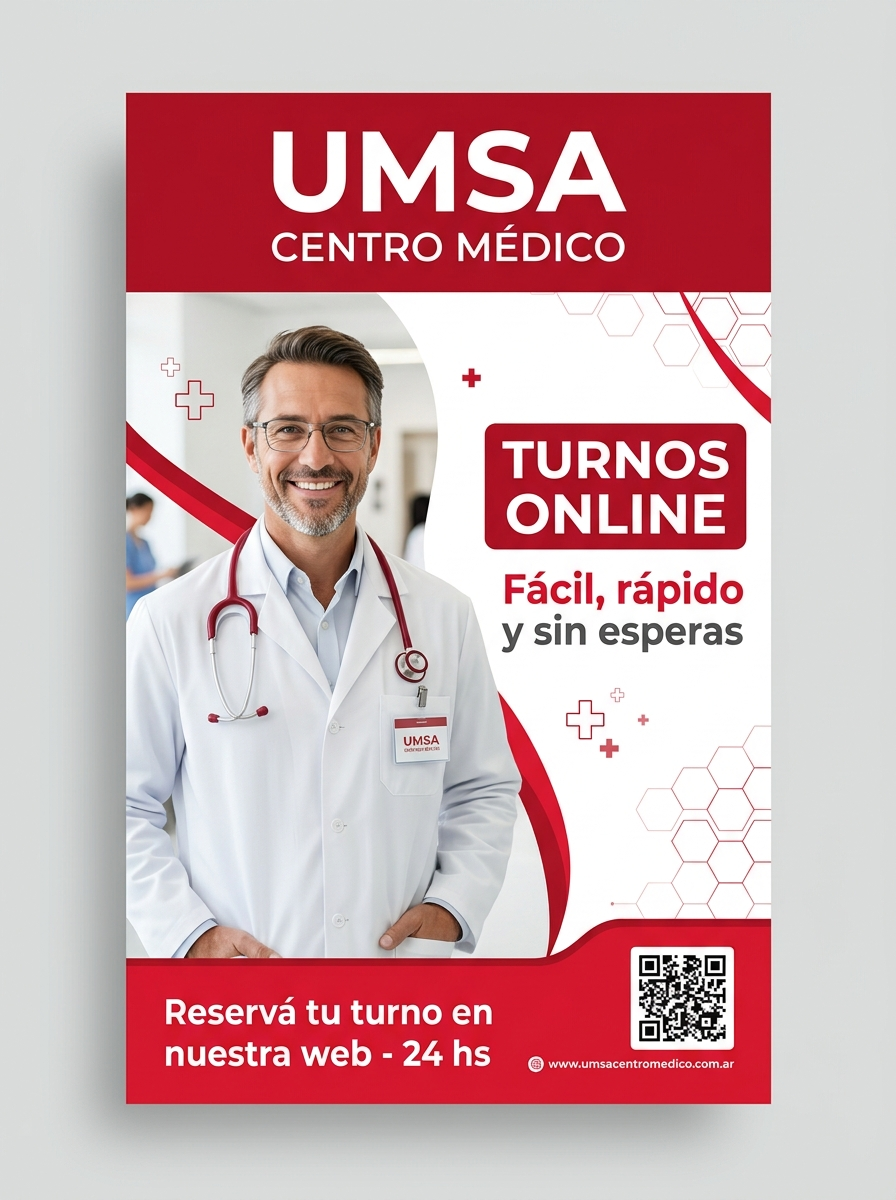
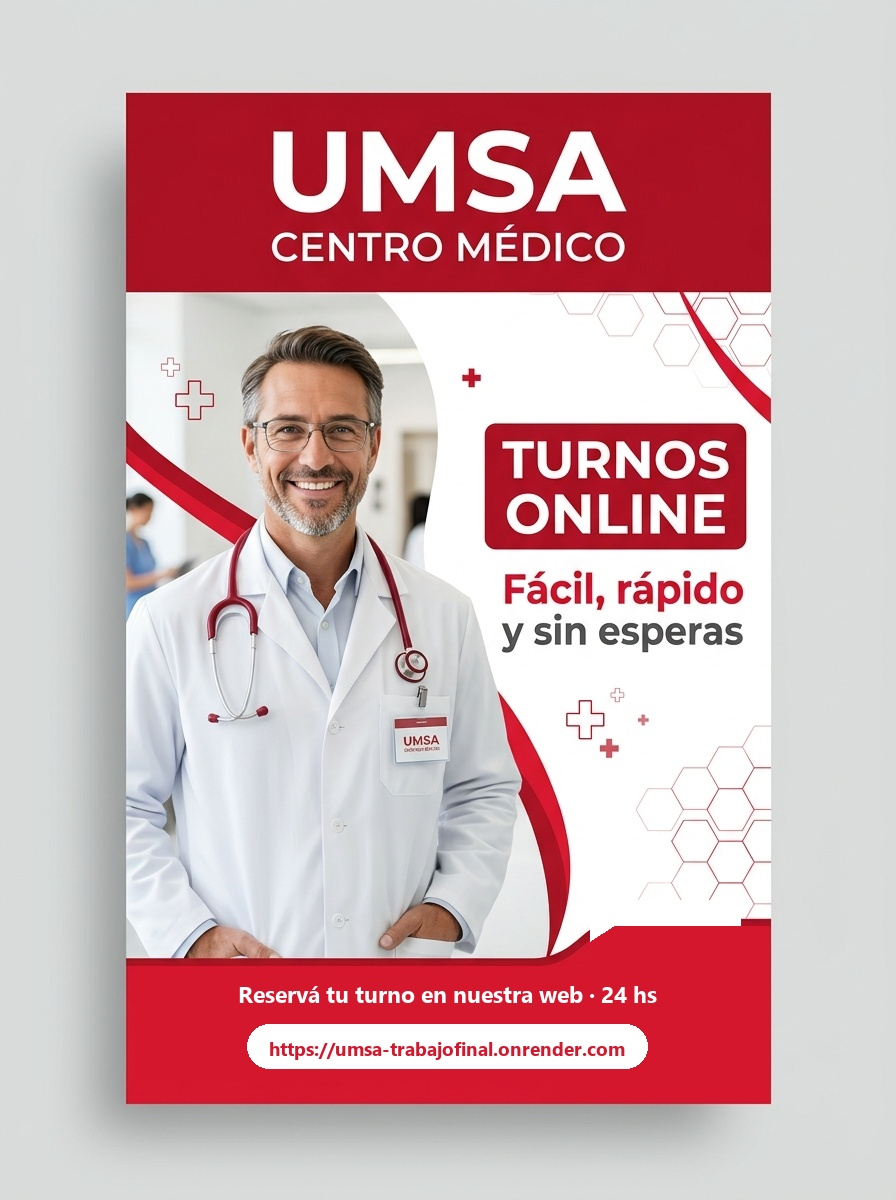
fix(flyers): eliminar QR y actualizar direccion web a https://umsa-trabajofinal.onrender.com

Changed region(s): [[0.1875, 0.74, 0.8438, 0.8942]]

diff --git a/app/umsa.py b/app/umsa.py
@@ -2,7 +2,7 @@ import os
 import requests
 
 def umsa_base_url():
-    return os.getenv("UMSA_BASE_URL", "https://umsa-django.onrender.com").rstrip("/")
+    return os.getenv("UMSA_BASE_URL", "https://umsa-trabajofinal.onrender.com").rstrip("/")
 
 def known_create_turno_url():
     return umsa_base_url() + os.getenv("UMSA_CREAR_TURNO_PATH", "/crear-turno/")
